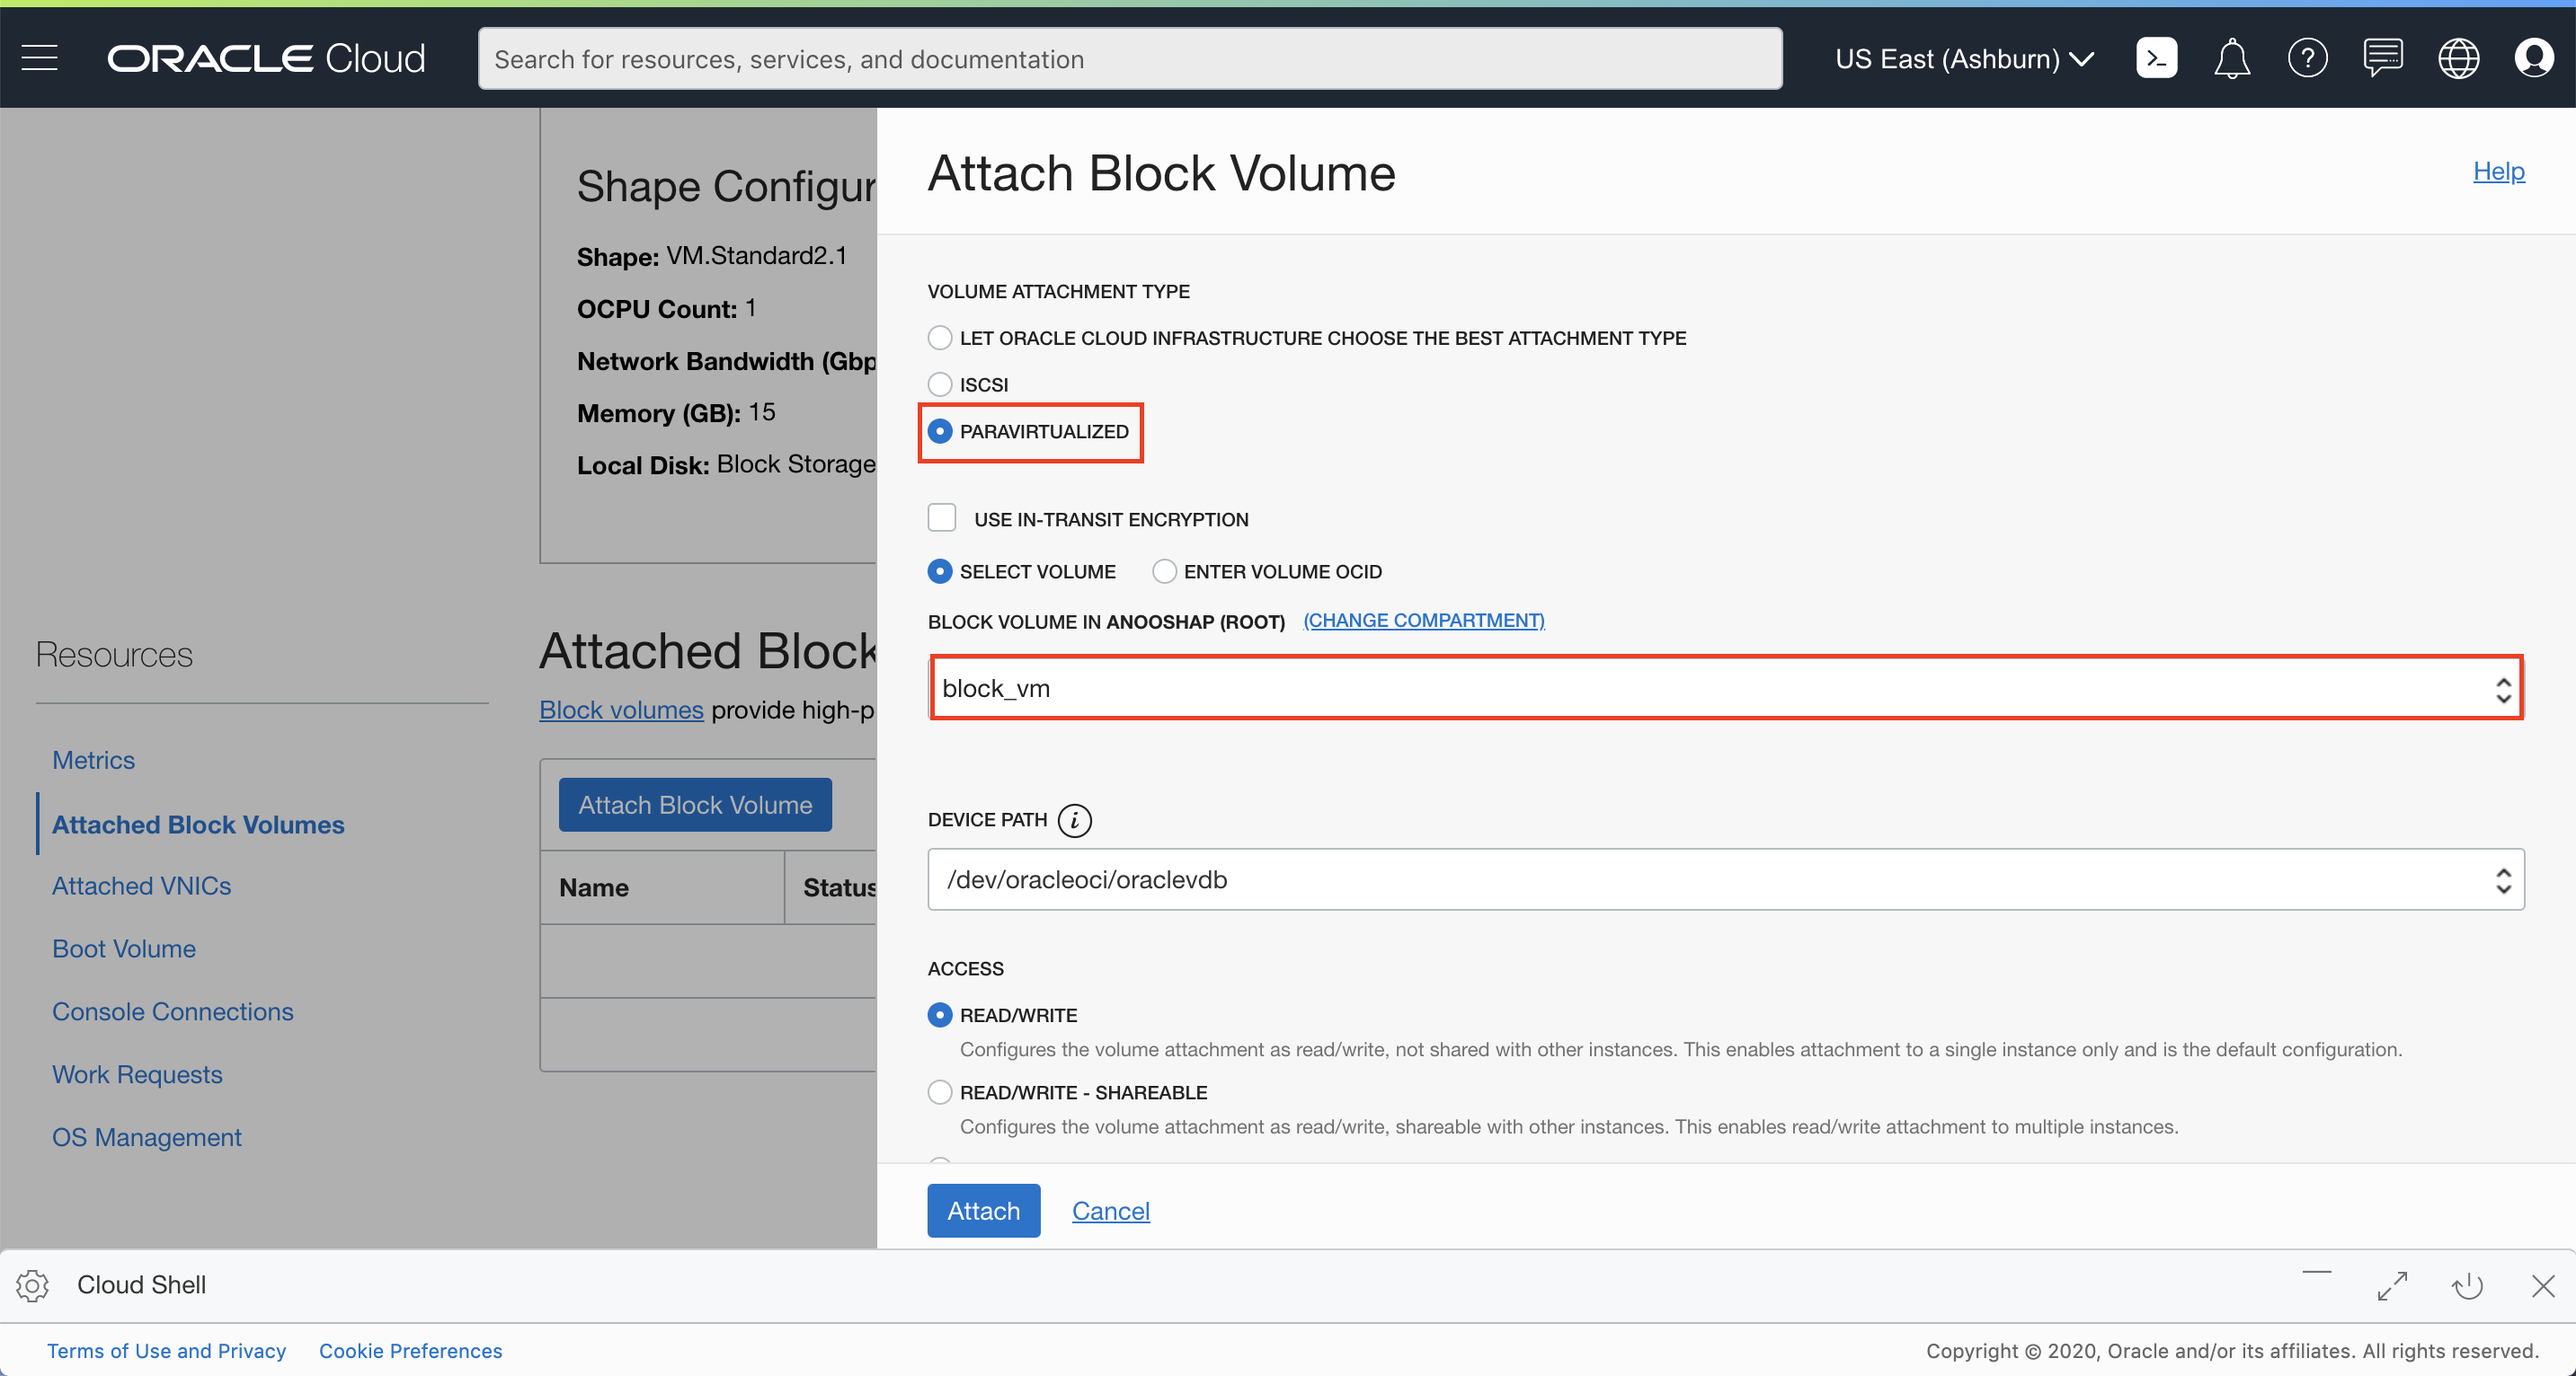
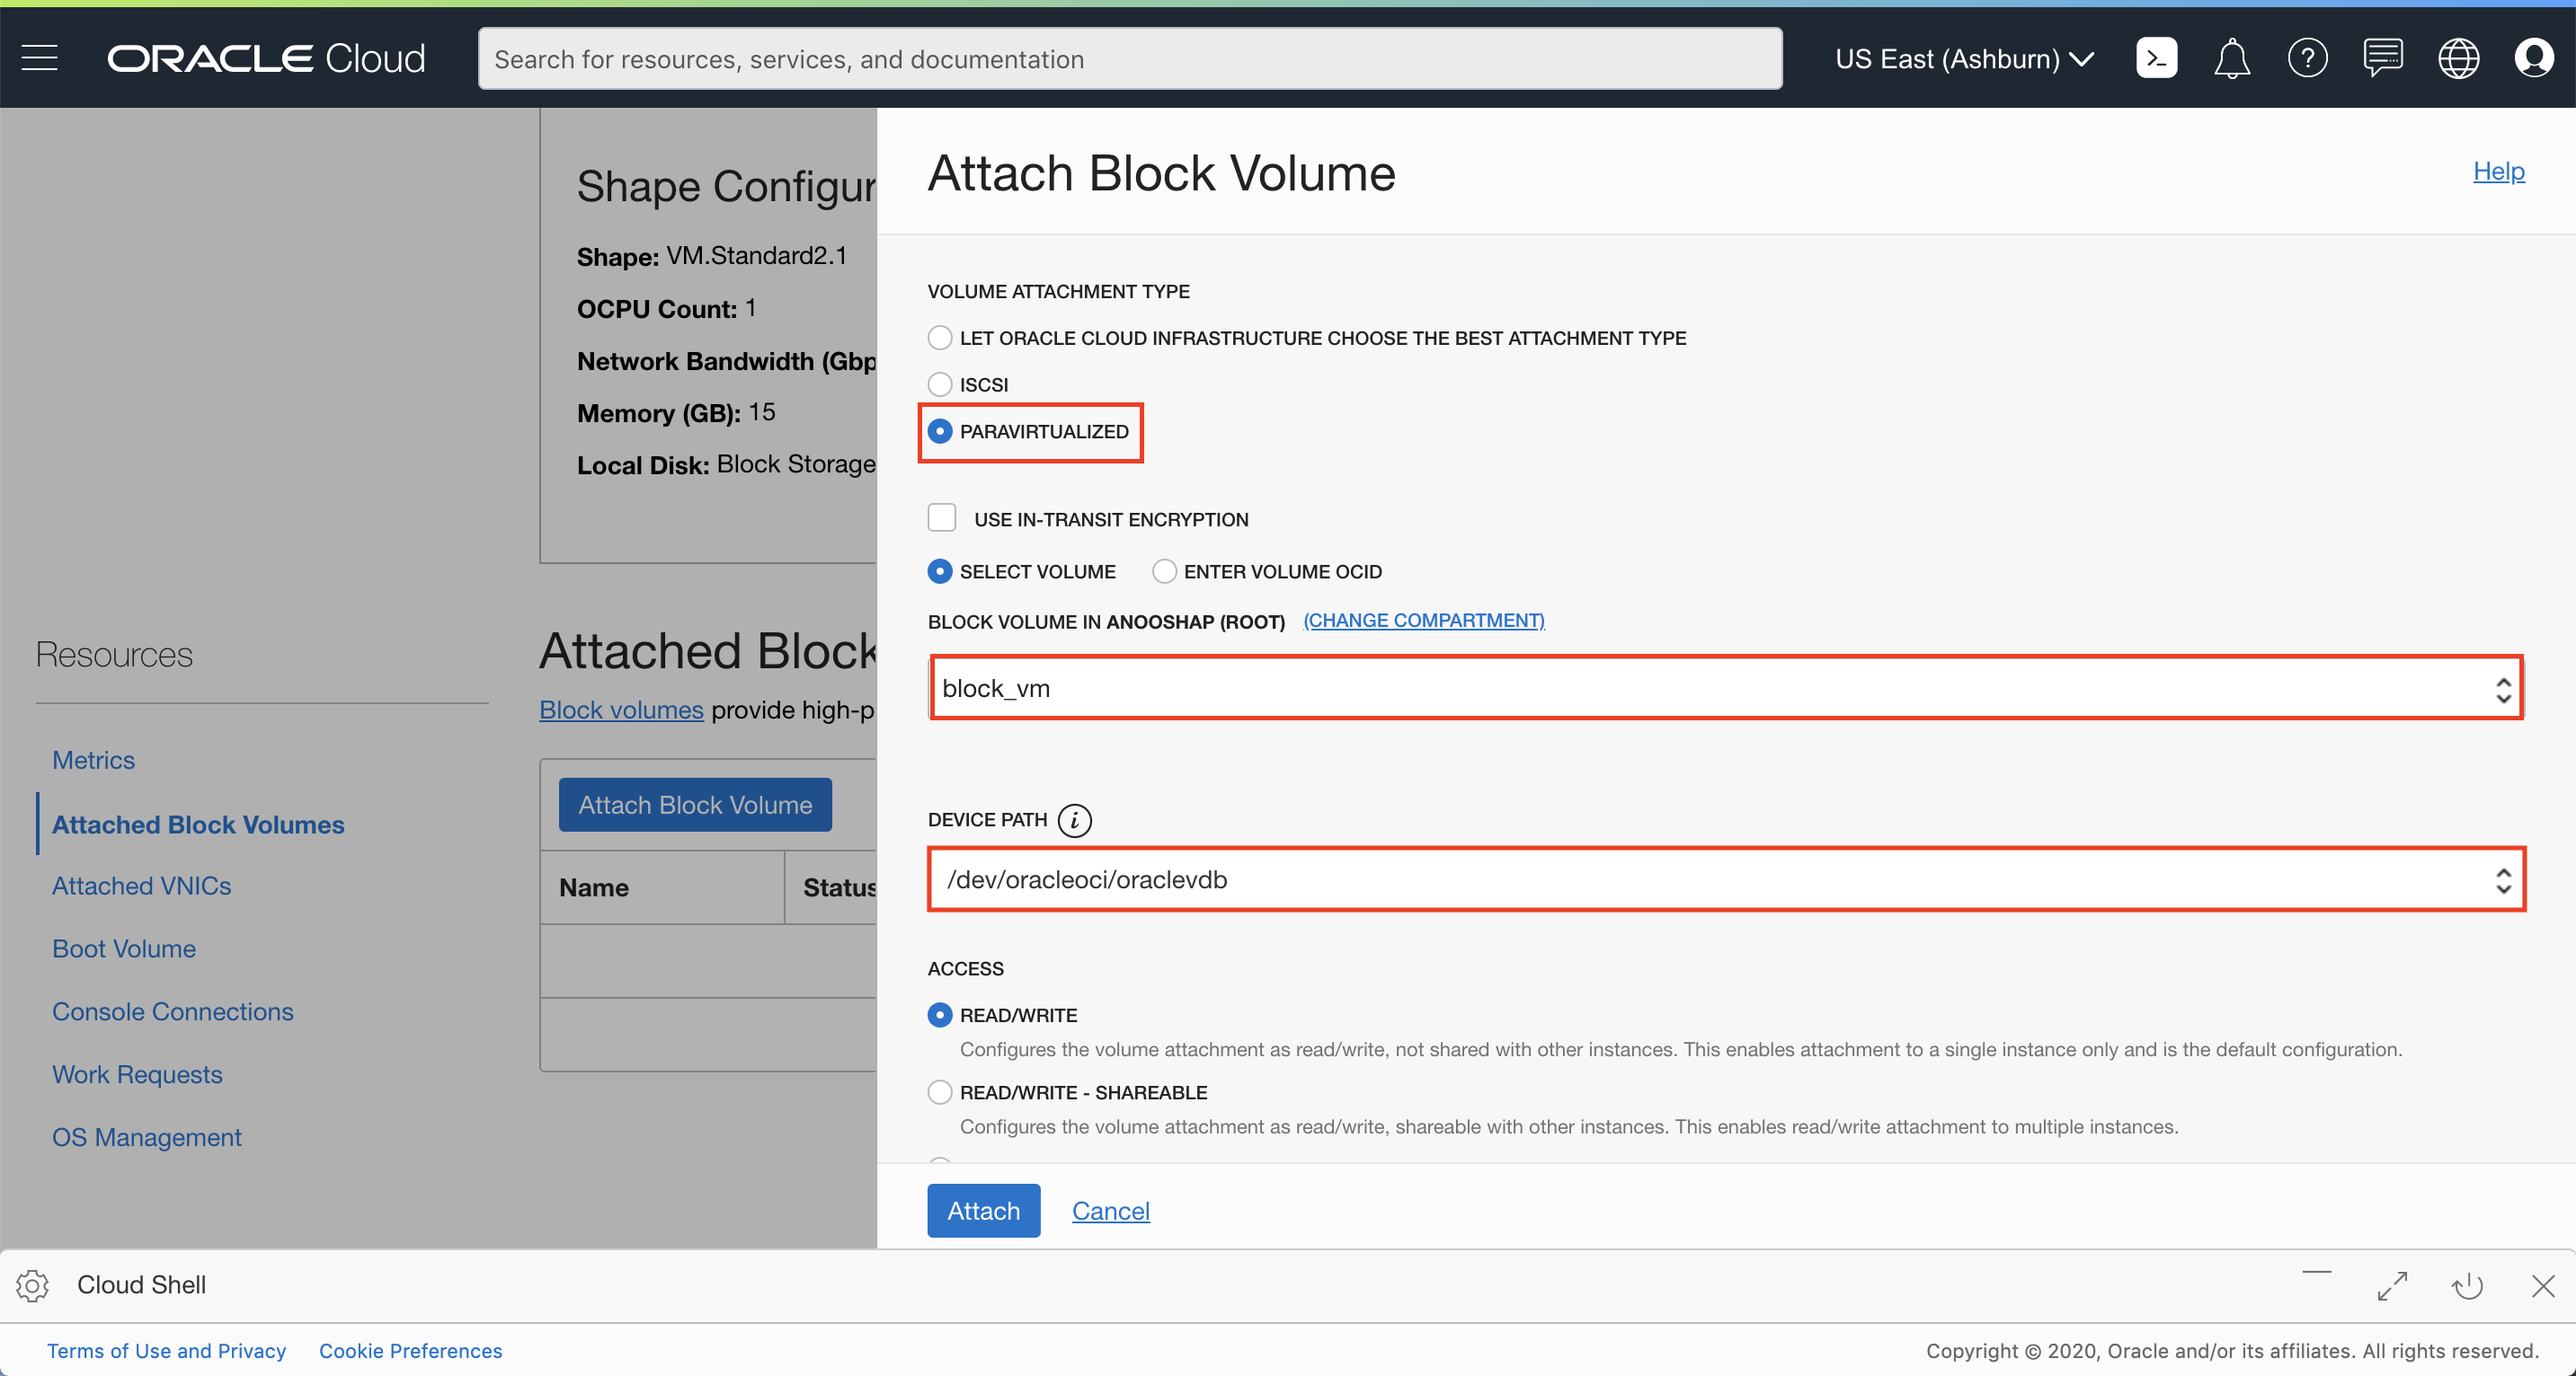
oci-quick-start

Changed region(s): [[0.3416, 0.6136, 0.9937, 0.6749]]

diff --git a/oci-library/oci-hol/oci-quick-start/oci-quick-start.md b/oci-library/oci-hol/oci-quick-start/oci-quick-start.md
@@ -161,6 +161,7 @@ Lab 2: Create SSH Keys - Cloud Shell
 
     - **Volume Attachment Type:** Choose Paravirtualized
     - **Block Volume In:** Click the drop down and choose the block volume created earlier
+    - **Device Path:** Select /dev/oracleoci/oraclevdb
     ![](./../oci-quick-start/images/QuickStart_S3P6.PNG " ")
 
     *NOTE: We can also use ISCSI mode. For more information please refer to https://docs.cloud.oracle.com/iaas/Content/Block/Concepts/overview.htm#attachtype OR refer Appendix section at the end of the lab.*
@@ -170,7 +171,8 @@ Lab 2: Create SSH Keys - Cloud Shell
 8. Verify Block volume is attached on compute instance details page (Refresh the screen if needed).
     ![](./../oci-quick-start/images/QuickStart_S3P8.PNG " ")
 
-## Step 4: Install httpd on compute instance and an app on Block Volume
+## Step 4: Install httpd on compute instance and an app on block volume.
+
 
 1. Switch to ssh session to compute install. Install httpd server, Enter Command:
 
@@ -179,6 +181,11 @@ Lab 2: Create SSH Keys - Cloud Shell
       sudo yum -y install httpd 
       </copy>
       ```
+
+      ![](./../oci-quick-start/images/Quick_S4P1.PNG " ")
+      ![](./../oci-quick-start/images/Quick_S4P1.5.PNG " ")
+      ![](./../oci-quick-start/images/Quick_S4P1.6.PNG " ")
+
 
 2. Configure Compute instance firewall, Enter commands:
 
@@ -197,6 +204,9 @@ Lab 2: Create SSH Keys - Cloud Shell
       ```
       (Reload the firewall to activate the rules).
 
+      ![](./../oci-quick-start/images/Quick_S4P2.PNG " ")
+      **NOTE:** The above screenshot shows parts 2-5
+
 3. Start httpd, Enter command:
    
       ```
@@ -205,7 +215,7 @@ Lab 2: Create SSH Keys - Cloud Shell
       </copy>
       ```
 
-4. Enter command lsblk to verify the Block volume storage is initialized. This could be sda, sdb or somethig else strting with 'sd'. In below example this volume is called sdb. Below screen shot shows a 1 TB volume though in this lab we have created a 50GB volume thus the size in your compute instance will be 50GB.
+4. Enter command lsblk to verify the Block volume storage is initialized. 
 
       ```
       <copy>
@@ -213,33 +223,38 @@ Lab 2: Create SSH Keys - Cloud Shell
       </copy>
       ```
 
-     ![](./../oci-quick-start/images/OCI_Quick_Start001.PNG " ")
+     ![](./../oci-quick-start/images/Quick_S4P4.PNG " ")
 
-      **HINT:** The Name sdb is the block volume storage. This name could change for your specific attachment (i.e sdc).
+      **HINT:** The name of the block volume storage will start with 'sd'. In this case it is sdb, but could change for your specific attachment (i.e sdc, sda). In the above example this volume is called sdb, shown by its 50GB volume. 
 
 5. To format the block volume, Enter Command: 
+      **NOTE:** <VOLUME_NAME> should be replaced by the string starting with 'sd' that you identified as the block volume storage in the previous step. 
 
       ```
       <copy>
       bash            
-      sudo fdisk <DEVICE_PATH> -l 
+      sudo fdisk /dev/VOLUME_NAME -l 
       </copy>
       ```
-      **For example sudo fdisk /dev/sdb -l**   
+      **For example: sudo fdisk /dev/sdb -l**   
       Wait for formatting to complete
 
 6. Create a file system on the block volume, Enter Command: 
+      **NOTE:** <VOLUME_NAME> should be replaced by the string starting with 'sd' that you identified as the block volume storage in the previous step.     
 
       ```
       <copy>
       bash
-      sudo mkfs.ext4 -L datapartition DEVICE_PATH
+      sudo mkfs.ext4 -L datapartition /dev/VOLUME_NAME
       </copy>
       ```  
 
       This will create the file system on the entire disk. Enter y when prompted with 'Proceed anyway'.
-
       **NOTE:** For this lab we will not be creating additional partitions.
+
+
+      ![](./../oci-quick-start/images/Quick_S4P6.PNG " ")
+      **NOTE:** The above screenshot shows parts 6 & 7.
 
 7. Create a directory where the disk will be mounted,Enter commands:
 
@@ -249,14 +264,17 @@ Lab 2: Create SSH Keys - Cloud Shell
       </copy>         
       ```
 
-8. Mount the disk to the newly created directory,
-Enter command:
+8. Mount the disk to the newly created directory. Enter command:
+**NOTE:** <VOLUME_NAME> should be replaced by the string starting with 'sd' that you identified as the block volume storage in the previous step. 
 
       ```
       <copy>
-      sudo mount  /dev/<VOLUME_NAME>  /mnt/www/html
+      sudo mount  /dev/VOLUME_NAME  /mnt/www/html
       </copy>
       ```
+
+      ![](./../oci-quick-start/images/Quick_S4P8.PNG " ")
+      **NOTE:** The above screenshot shows parts 8 & 9.
 
 9. Verify /dev/`<VOLUME_NAME>` volume is now mounted to /mnt/www/html directory, Enter command:
 
@@ -276,6 +294,8 @@ Enter command:
       cd /home/opc
       </copy>
       ```
+      ![](./../oci-quick-start/images/Quick_S4P10.PNG " ")
+      **NOTE:** The above screenshot shows parts 10 & 11.
 
 11. Enter Command:
 
@@ -291,6 +311,8 @@ Enter command:
       unzip master.zip
       </copy>
       ```
+      ![](./../oci-quick-start/images/Quick_S4P12.PNG " ")
+      **NOTE:** The above screenshot shows parts 12-14.
 
 13. Enter Command:
   
@@ -301,28 +323,23 @@ Enter command:
       ```
 
 14. Modify httpd.conf file, Enter Command:
-   
       ```
       <copy>
-      sudo vi /etc/httpd/conf/httpd.conf (for vi) 
+      sudo nano  /etc/httpd/conf/httpd.conf
       </copy>
       ```
 
-      OR 
+15. Search for string /var/www and replace it with /mnt/www/html. This will be done in 3 locations
 
-      ```
-      <copy>
-      sudo nano  /etc/httpd/conf/httpd.conf  (for nano)
-      </copy>
-      ```
-
-      **NOTE:** in vi you can save the file after modification by using Esc :wq 
-
-15. Search for string /var/www and replace it with /mnt/www/html . This will be done in 3 locations
+'''
+<copy>
+/mnt/www/html
+</copy>
+'''
 
      ![](./../oci-quick-start/images/Customer_Lab_007.PNG " ")
 
-16. Save and Exit (in vi user Esc :wq)
+16. To Save and Exit, Control+Z. When asked 'Save modified buffer?', type y for yes. Then press enter to preserve the name of the file. 
 
 17. Enter command:
 
@@ -331,6 +348,8 @@ Enter command:
       sudo chcon -R --type=httpd_sys_rw_content_t /mnt
       </copy>
       ```
+      ![](./../oci-quick-start/images/Quick_S4P17.PNG " ")
+      **NOTE:** The above screenshot shows parts 17-19.
 
 18. Restart httpd server, Enter command:
 
@@ -345,11 +364,10 @@ Enter command:
       ```
       <copy>
       bash
-      http://COMPUTE_INSTANCE_PUBLIC_IP
       </copy>
       ```
 
-20. Screen like below should appear.
+20. Open a new tab and enter 'http://COMPUTE_INSTANCE_PUBLIC_IP' and a screen like below should appear.
 
      ![](./../oci-quick-start/images/Customer_Lab_008.PNG " ")
 
@@ -364,7 +382,7 @@ In this section we will detach the block volume, Stop the compute instance, use 
       ```
       <copy>
       bash
-      sudo umount /dev/<VOLUME_NAME> 
+      sudo umount /dev/VOLUME_NAME
       </copy>
       ```
 2. In OCI console window, Click your compute instance name and in **Attached Block Volume** section  Click the action icon and **Click Detach**.
@@ -383,39 +401,18 @@ In this section we will detach the block volume, Stop the compute instance, use 
 
 7. In the Boot Volume Details window Click **Create Instance:**
 
-      - **Name your instance**: Enter a name 
-      - **Choose an operating system or image source**: Leave as is (It should show the boot volume of the terminated instance)
+8. Repeat the settings detailed in **STEP 2** to create an instance.
 
-      - **Availability Domain**: Select availability domain
+13. Once the instance is in Running state, attach the block volume to this new instance using OCI Console using the settings detailed in **STEP 3**. 
+**NOTE:** Ensure to use Paravirtualized mode and wait for the block volume to change from 'Attaching' to 'Attached'.
 
-      **NOTE :** Boot Volume field is set to BOOT VOLUME and to the boot volume you detached from the original Instance.
-
-      - **Instance Type**: Select Virtual Machine 
-      - **Instance Shape**: Select VM shape 
-
-      **Under Configure Networking**
-      - **Virtual cloud network compartment**: Select your compartment
-      - **Virtual cloud network**: Choose the VCN 
-      - **Subnet Compartment:** Choose your compartment. 
-      - **Subnet:** Choose the Public Subnet under **Public Subnets** 
-      - **Use network security groups to control traffic** : Leave un-checked
-      - **Assign a public IP address**: Check this option
-
-      - **Boot Volume:** Leave the default
-      - **Add SSH Keys:** Choose 'Paste SSH Keys' and paste the Public Key saved earlier.
-
-8. Click **Create**.
-
-   **NOTE:** If 'Service limit' error is displayed choose a different shape such as VM.Standard.E2.2 OR VM.Standard2.2 OR Choose a different AD.
-
-9. Once the instance is in Running state, attach the block volume to this new instance using OCI Console.**Ensure to use Paravirtualized mode.**
-
-10. ssh to compute instance and mount the block volume as before, Enter Command:
+14. To compute instance and mount the block volume as before, Enter Command:
+**NOTE:** replace VOLUME_NAME with the location of the block volume starting with 'sd'.s
 
       ```
       <copy>
       bash
-      sudo mount  /dev/<VOLUME_NAME>  /mnt/www/html
+      sudo mount  /dev/VOLUME_NAME  /mnt/www/html
       </copy>
       ```
 
